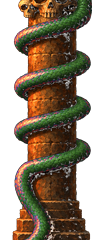
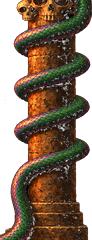
Smooth the throne snakes' tails
Extend the final coil seamlessly over the base to the floor, adjust the painting alignment, and regenerate the throne stage assets at all HD resolutions.

diff --git a/tools/draw_snakes.py b/tools/draw_snakes.py
@@ -32,10 +32,12 @@ PAINTING = ROOT / 'tools/snakes_painting.png'
 MASTER = 6                   # pixels per game pixel of the column that is kept here, before it is reduced further
 PX_X, PX_Y = 7.05, 7.49      # pixels of the painting per game pixel, across and down: the model paints the column a little
                              # taller than the layout, and these give back the proportions of the layout (see below)
+SPLIT_ROW = 88                # the shaft, the coils and the base (below this game row) are reduced a little more, to PX_Y_LOW,
+PX_Y_LOW = 8.11               # so that the foot of the column, which the model paints low, lands on row 196: see SPLIT_Y
 FLOOR = 200
 HEAD_TOP, HEAD_ROWS, HEAD_WIDTH = 36, 44, 62   # where the game draws the head poses (`snakeY` in stage.js), and their size: they end at row 80, a
                                                # little below where the column that the fighters walk behind starts (OVERLAY_TOP)
-SPAN = 98                    # game pixels covered by the column, from the edge of the screen: the tail reaches there
+SPAN = 104                   # game pixels covered by the column, from the edge of the screen: the tail reaches there
 CLEAR_TOP = 16               # below the panel of the scores and the life skulls, the pillars of the C64 picture are cleared from this row
 CLEAR = 34                   # the C64 picture has its pillar up to this column
 PILLAR_TOP = 60              # the game row of the top of the column (RIM_Y), the top of its skulls
@@ -50,13 +52,14 @@ OVERLAY_TOP, OVERLAY_ROWS, OVERLAY_WIDTH = 70, 120, 46
 # its foot, the column and the rows of the poses' sheet (it holds only the poses to the right of that column and above that
 # row), where the first guess of the two other head poses is, and the big skull. The top is at row 60 of the game and the
 # foot at about 196, which with the width of the shaft gives PX_X and PX_Y.
-COLUMN_X = 24
-RIM_Y = 307
-SHEET_X, SHEET_Y = 328, 1170
-POSE_GUESS = {1: (310, 342), 2: (310, 690)}
+COLUMN_X = 22
+RIM_Y = 305
+SPLIT_Y = RIM_Y + (SPLIT_ROW - PILLAR_TOP) * PX_Y   # the painting row of SPLIT_ROW: the foot is at 1391, row 196 of the game
+SHEET_X, SHEET_Y = 328, 1250
+POSE_GUESS = {1: (312, 352), 2: (312, 700)}
 # the first row of the painting that belongs to each of these poses (above it the sheet holds the picture before)
-POSE_START = {1: 500, 2: 850}
-SKULL_AREA = (665, 130, 900, 370)
+POSE_START = {1: 520, 2: 865}
+SKULL_AREA = (655, 130, 900, 380)
 # the part of the column that the head poses are lined up on: the skulls, rows and columns
 MATCH = (300, 460, 60, 290)
 # The skulls of the column never move: in every pose they are the ones of the calm pose, and only what is snake (violet,
@@ -87,11 +90,12 @@ def resized(rgb, size):
     return done[0] if rgb.ndim == 2 else np.stack(done, axis=-1)
 
 
-def window(x, y, width, height):
-    """The painting from pixel (x, y), `width` x `height` game pixels, as an RGB float array at MASTER."""
+def window(x, y, width, height, py=PX_Y):
+    """The painting from pixel (x, y), `width` x `height` game pixels, as an RGB float array at MASTER; `py` is how many
+    pixels of the painting make a game pixel down."""
     p = painting()
     x0, y0 = int(round(x)), int(round(y))
-    w, h = int(round(width * PX_X)), int(round(height * PX_Y))
+    w, h = int(round(width * PX_X)), int(round(height * py))
     crop = np.zeros((h, w, 3), np.float32)                  # what is outside the painting is black
     sy, sx = max(y0, 0), max(x0, 0)
     part = p[sy:y0 + h, sx:x0 + w]
@@ -115,11 +119,12 @@ def opaque(rgb):
 def column():
     """The painted column of player A as (RGB, alpha) float arrays at MASTER: rows HEAD_TOP to FLOOR, columns 0 to SPAN of
     the picture. Where the alpha is 0 the painting is black and the picture shows through."""
-    rows = FLOOR - HEAD_TOP
     top = RIM_Y - (PILLAR_TOP - HEAD_TOP) * PX_Y
-    rgb = window(COLUMN_X, top, SPAN, rows)
+    # the top (the head and the skulls) at PX_Y; the shaft, the coils and the base, down to the foot, a little more reduced
+    rgb = np.concatenate([window(COLUMN_X, top, SPAN, SPLIT_ROW - HEAD_TOP),
+                          window(COLUMN_X, SPLIT_Y, SPAN, FLOOR - SPLIT_ROW, PX_Y_LOW)])
     sheet = int((SHEET_X - COLUMN_X) / PX_X * MASTER)      # to the right of this the painting holds the other poses
-    cut = int((SHEET_Y - top) / PX_Y * MASTER)
+    cut = int((SPLIT_ROW - HEAD_TOP + (SHEET_Y - SPLIT_Y) / PX_Y_LOW) * MASTER)
     rgb[:cut, sheet:] = 0
     return rgb, opaque(rgb)
 

diff --git a/tools/draw_snakes_layout.py b/tools/draw_snakes_layout.py
@@ -212,14 +212,17 @@ def neck_points(pose, count=110):
     return np.column_stack([top, np.zeros(count)])
 
 
-def tail_points(end):
-    """The tail: the body goes on from `end`, where the last turn crosses the front of the column, and falls in front of the
-    shaft and of the base to the floor, where it lies curving to the right, tapering to a thin tip."""
-    x0, y0, z0 = end
-    path = [(x0, y0, z0), (CX + 82, y0 + 14, 98), (CX + 92, y0 + 58, 106), (CX + 74, y0 + 116, 116), (CX + 40, y0 + 168, 128),
-            (CX + 24, 1208, 140), (CX + 44, 1248, 150), (CX + 96, 1272, 152), (CX + 152, 1274, 152), (CX + 212, 1258, 152),
-            (CX + 276, 1266, 152), (CX + 340, 1254, 152), (CX + 410, 1250, 152)]
-    return spline(path, 420)
+def tail_points(helix):
+    """The tail: the body goes on from the end of `helix`, where the last turn crosses the front of the column, without a bend: it keeps
+    the slant of the coil (down to the right, as in the C64 picture), swings over the right edge of the base, which it
+    crosses in front, and comes down to the floor, where it curves to the right and lies, tapering to a thin tip."""
+    x0, y0, z0 = helix[-1]
+    path = [tuple(helix[-40]), tuple(helix[-20]), (x0, y0, z0), (CX + 92, y0 + 28, 98), (CX + 122, y0 + 78, 104), (CX + 130, y0 + 138, 116), (CX + 114, y0 + 196, 130),
+            (CX + 106, 1236, 142), (CX + 136, 1268, 150), (CX + 196, 1278, 152), (CX + 258, 1264, 152), (CX + 322, 1270, 152),
+            (CX + 386, 1256, 152), (CX + 450, 1252, 152)]
+    curve = spline(path, 480)
+    start = np.argmin(np.linalg.norm(curve - helix[-1], axis=1))   # the curve goes through the end of the coil: the tail begins there
+    return curve[start:]
 
 
 def draw_head(sheet, pose, dx=0, dy=0):
@@ -282,8 +285,9 @@ def main():
     # the column with the snake: the neck, the body winding round the shaft, and the tail
     add_top(sheet, POSES[0], True)
     helix = helix_points()
-    sheet.tube(helix, TUBE)
-    sheet.tube(tail_points(helix[-1]), [TUBE] * 5 + [TUBE * 0.95, TUBE * 0.8, TUBE * 0.6, TUBE * 0.4, TUBE * 0.2, 2])
+    tail = tail_points(helix)
+    taper = np.interp(np.linspace(0, 1, len(tail)), np.linspace(0, 1, 11), [TUBE] * 6 + [TUBE * 0.92, TUBE * 0.75, TUBE * 0.5, TUBE * 0.28, 2])
+    sheet.tube(np.vstack([helix, tail[1:]]), np.concatenate([np.full(len(helix), TUBE), taper[1:]]))   # one body, no seam
     # the three poses, to the right, each with the top of the column down to PANEL_BOTTOM
     for pose, dy in zip(POSES, PANEL_DY):
         panel = Sheet()

diff --git a/README.md b/README.md
@@ -126,8 +126,9 @@ is behind each game pixel. [`assets/manifest.json`](assets/manifest.json) descri
   `tools/snakes_layout.png`, in the style of the throne painting, on a black background). The layout is a rough 3D
   render made by `python tools/draw_snakes_layout.py`: each column stands on a stepped base, and the snake is a plain
   snake (not a cobra: its head is a smooth wedge as wide as its neck, with no hood) that winds round the shaft in a
-  regular spiral of constant thickness, with its last coil crossing the front of the column and its tail falling in front
-  of the shaft and of the base to the floor of the room, where it lies. The capital is made of skulls only (a big one with
+  regular spiral of constant thickness, with its last coil crossing the front of the column and flowing, as in the C64
+  picture, into the tail without a bend: it keeps the slant of the coil over the right edge of the base (in front of it) and
+  comes down to the floor of the room, where it lies. The capital is made of skulls only (a big one with
   a smaller one at each side, no stone cap); the columns stand low on the screen, with their foot below the fighters'.
   In the open-mouth poses (`POSES`: `tilt`, `jaw`, `neck`, `arch`) the head turns down toward
   the fighter. The painting is laid over the room picture wherever it is not black, with a soft shadow on the floor;
